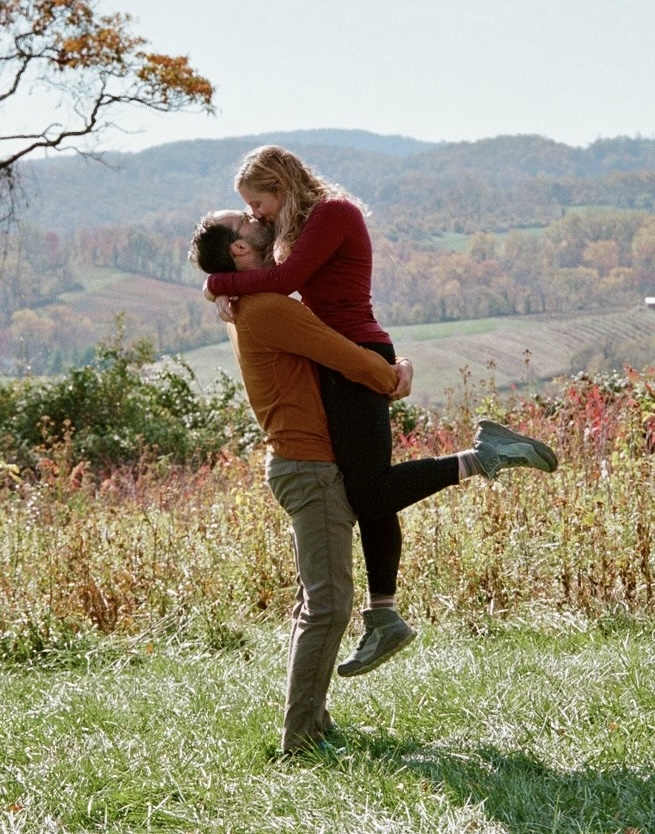
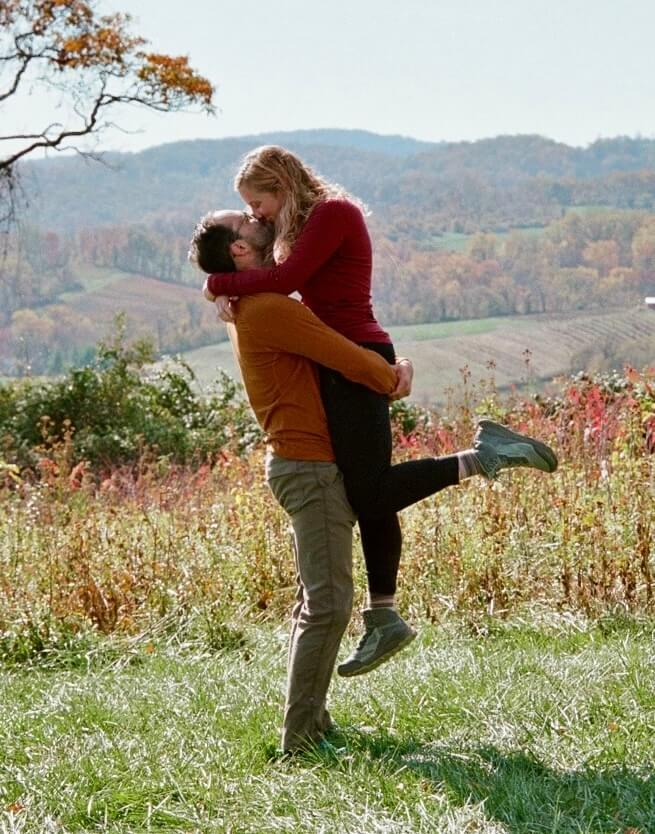
compresses images, fixes some typos

diff --git a/docs/index.md b/docs/index.md
@@ -8,7 +8,7 @@ layout: home
 </script>
 
 <div class="hero">
-  <VPImage class="image" :image="'images/home_hero.jpeg'"></VPImage>
+  <VPImage class="image" :image="'images/home_hero.jpg'"></VPImage>
 
   <h1 class="hero-title">September 2024</h1>
 </div>
@@ -20,18 +20,18 @@ layout: home
     <VPButton text="Click to View" href="https://docs.google.com/forms/d/e/1FAIpQLSfjVaCJHiNUDhZZocJlhuo69HipwODoZLmgsj4-apVz4iRdIg/viewform?usp=sf_link" />
   </div>
 
-  <VPImage :image="'images/IMG_2627.jpeg'"></VPImage>
+  <VPImage :image="'images/IMG_2627.jpg'"></VPImage>
 </article>
 
 <carousel :autoplay="true" :loop="true" :scrollPerPage="false" :perPage="1" :perPageCustom="[[768,2]]" :paginationPosition="'bottom-overlay'">
   <slide>
-    <VPImage :image="'images/DSC_0199.JPG'"></VPImage>
+    <VPImage :image="'images/DSC_0199.jpg'"></VPImage>
   </slide>
   <slide>
     <VPImage :image="'images/7A9C52CD-A283-4AF5-A4E4-E22EBDCAFF4A.jpg'"></VPImage>
   </slide>
   <slide>
-    <VPImage :image="'images/IMG_0063.jpeg'"></VPImage>
+    <VPImage :image="'images/IMG_0063.jpg'"></VPImage>
   </slide>
   <slide>
     <VPImage :image="'images/231113000203190014.jpg'"></VPImage>
@@ -40,10 +40,10 @@ layout: home
     <VPImage :image="'images/231113000203220022.jpg'"></VPImage>
   </slide>
   <slide>
-    <VPImage :image="'images/IMG_0426.jpeg'"></VPImage>
+    <VPImage :image="'images/IMG_0426.jpg'"></VPImage>
   </slide>
   <slide>
-    <VPImage :image="'images/IMG_2627.jpeg'"></VPImage>
+    <VPImage :image="'images/231113000203190008.jpg'"></VPImage>
   </slide>
 </carousel>
 
@@ -65,12 +65,11 @@ layout: home
 
     .action-description {
       text-align: center;
-      margin: 0 2em;
 
       p {
-        margin-bottom: 2em;
         font-size: 1.25em;
         line-height: 1.5em;
+        margin-bottom: 2em;
       }
     }
 
@@ -97,6 +96,10 @@ layout: home
 
       .action-description {
         width: 50%;
+
+        p {
+          margin-bottom: 2em;
+        }
       }
 
       .VPImage {

diff --git a/docs/itinerary.md b/docs/itinerary.md
@@ -6,17 +6,14 @@ layout: doc
 \*Tentative\* Please come back soon for more information
 
 ### Friday
--
 - Arrive at The Mountain at your leisure and get settled in your accommodations
 - Dinner will be served in the dining hall
 - Afterward, join us for games, a bonfire, and socializing
 
 ### Saturday
--
 - Breakfast and lunch will be served in the dining hall
 - The ceremony will take place in the early afternoon, reception and party to follow
 
 ### Sunday
--
 - Breakfast will be served in the dining hall
 - Goodbyes!
